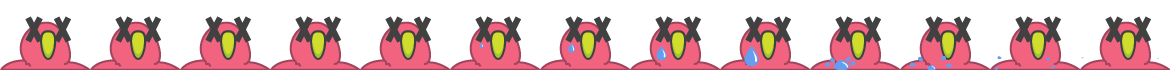
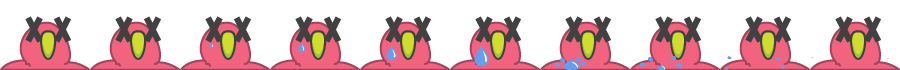
updated hero DEAD animation + fps count

diff --git a/src/sprites/Player.js b/src/sprites/Player.js
@@ -20,7 +20,7 @@ export default class extends Phaser.Sprite {
 		this.game.physics.arcade.enable(this)
 		this.body.gravity.y = config.player.weight
 		this.body.velocity.x = config.player.speed
-		this.animations.play('walk', 9, true)
+		this.animations.play('walk', 18, true)
 	}
 
 	/**
@@ -33,7 +33,7 @@ export default class extends Phaser.Sprite {
 		this.body.velocity.x = 0
 		// change sprite image
 		this.loadTexture('playerDead')
-		this.animations.play('dead', 26, true)
+		this.animations.play('dead', 13.5, true)
 	}
 
 	/**

diff --git a/src/states/Splash.js b/src/states/Splash.js
@@ -28,7 +28,7 @@ export default class extends Phaser.State {
 		this.load.spritesheet('start', './assets/images/start.png', 140, 140)
 
 		this.load.spritesheet('player', './assets/images/hero-normal.png', 90, 70, 9)
-		this.load.spritesheet('playerDead', './assets/images/hero-dead.png', 90, 70, 13)
+		this.load.spritesheet('playerDead', './assets/images/hero-dead.png', 90, 70, 9)
 
 		this.load.audio('coin', './assets/audio/coin.wav')
 		this.load.audio('ouch', './assets/audio/ouch.wav')
